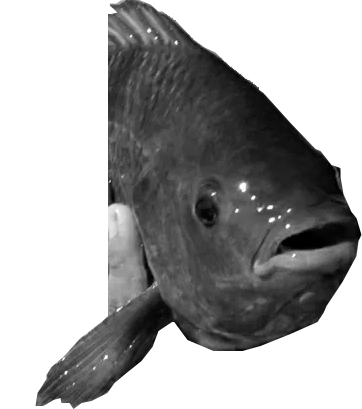
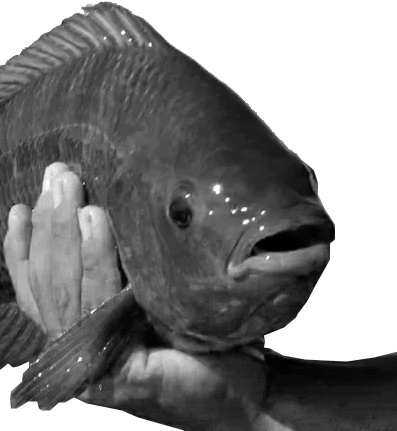
atualização tilapia

diff --git a/src/styles/Home.css b/src/styles/Home.css
@@ -5,8 +5,8 @@ main {
 
 .meu-hero {
   position: absolute;
-  left: -130px;
-  width: 130%;
+  left: -100px;
+  width: 150%;
   padding: 0;
   margin: 0;
   z-index: 0;
